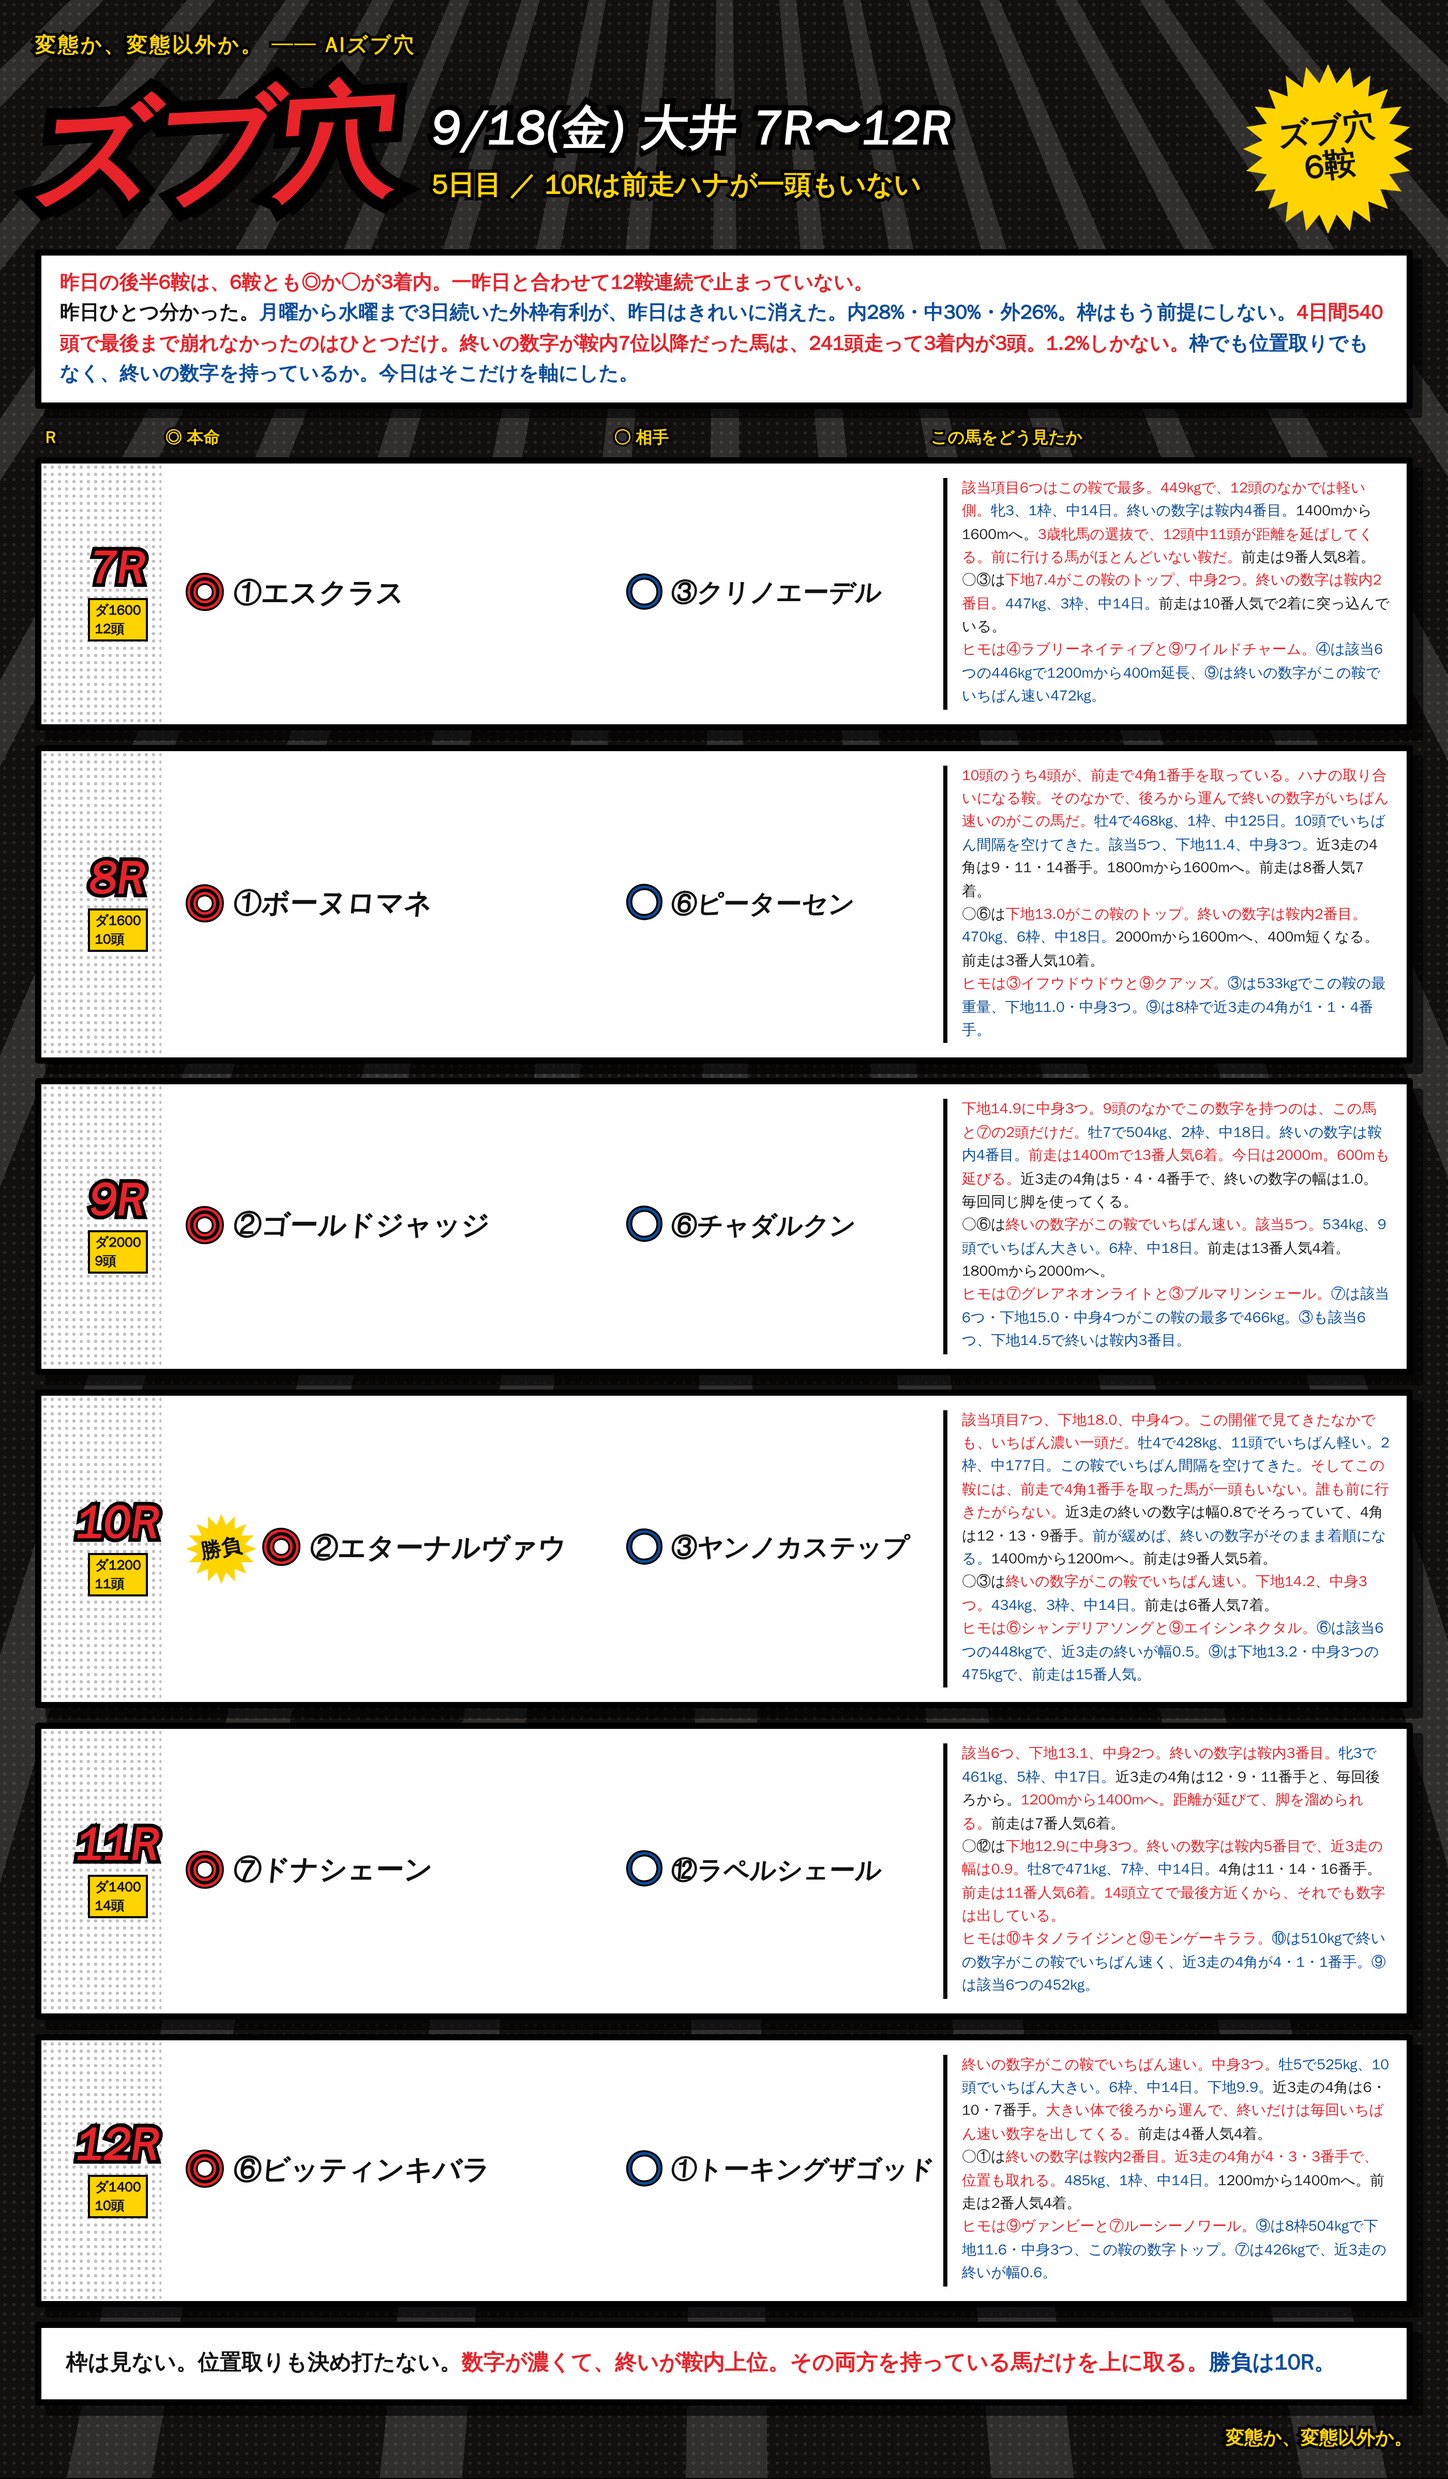
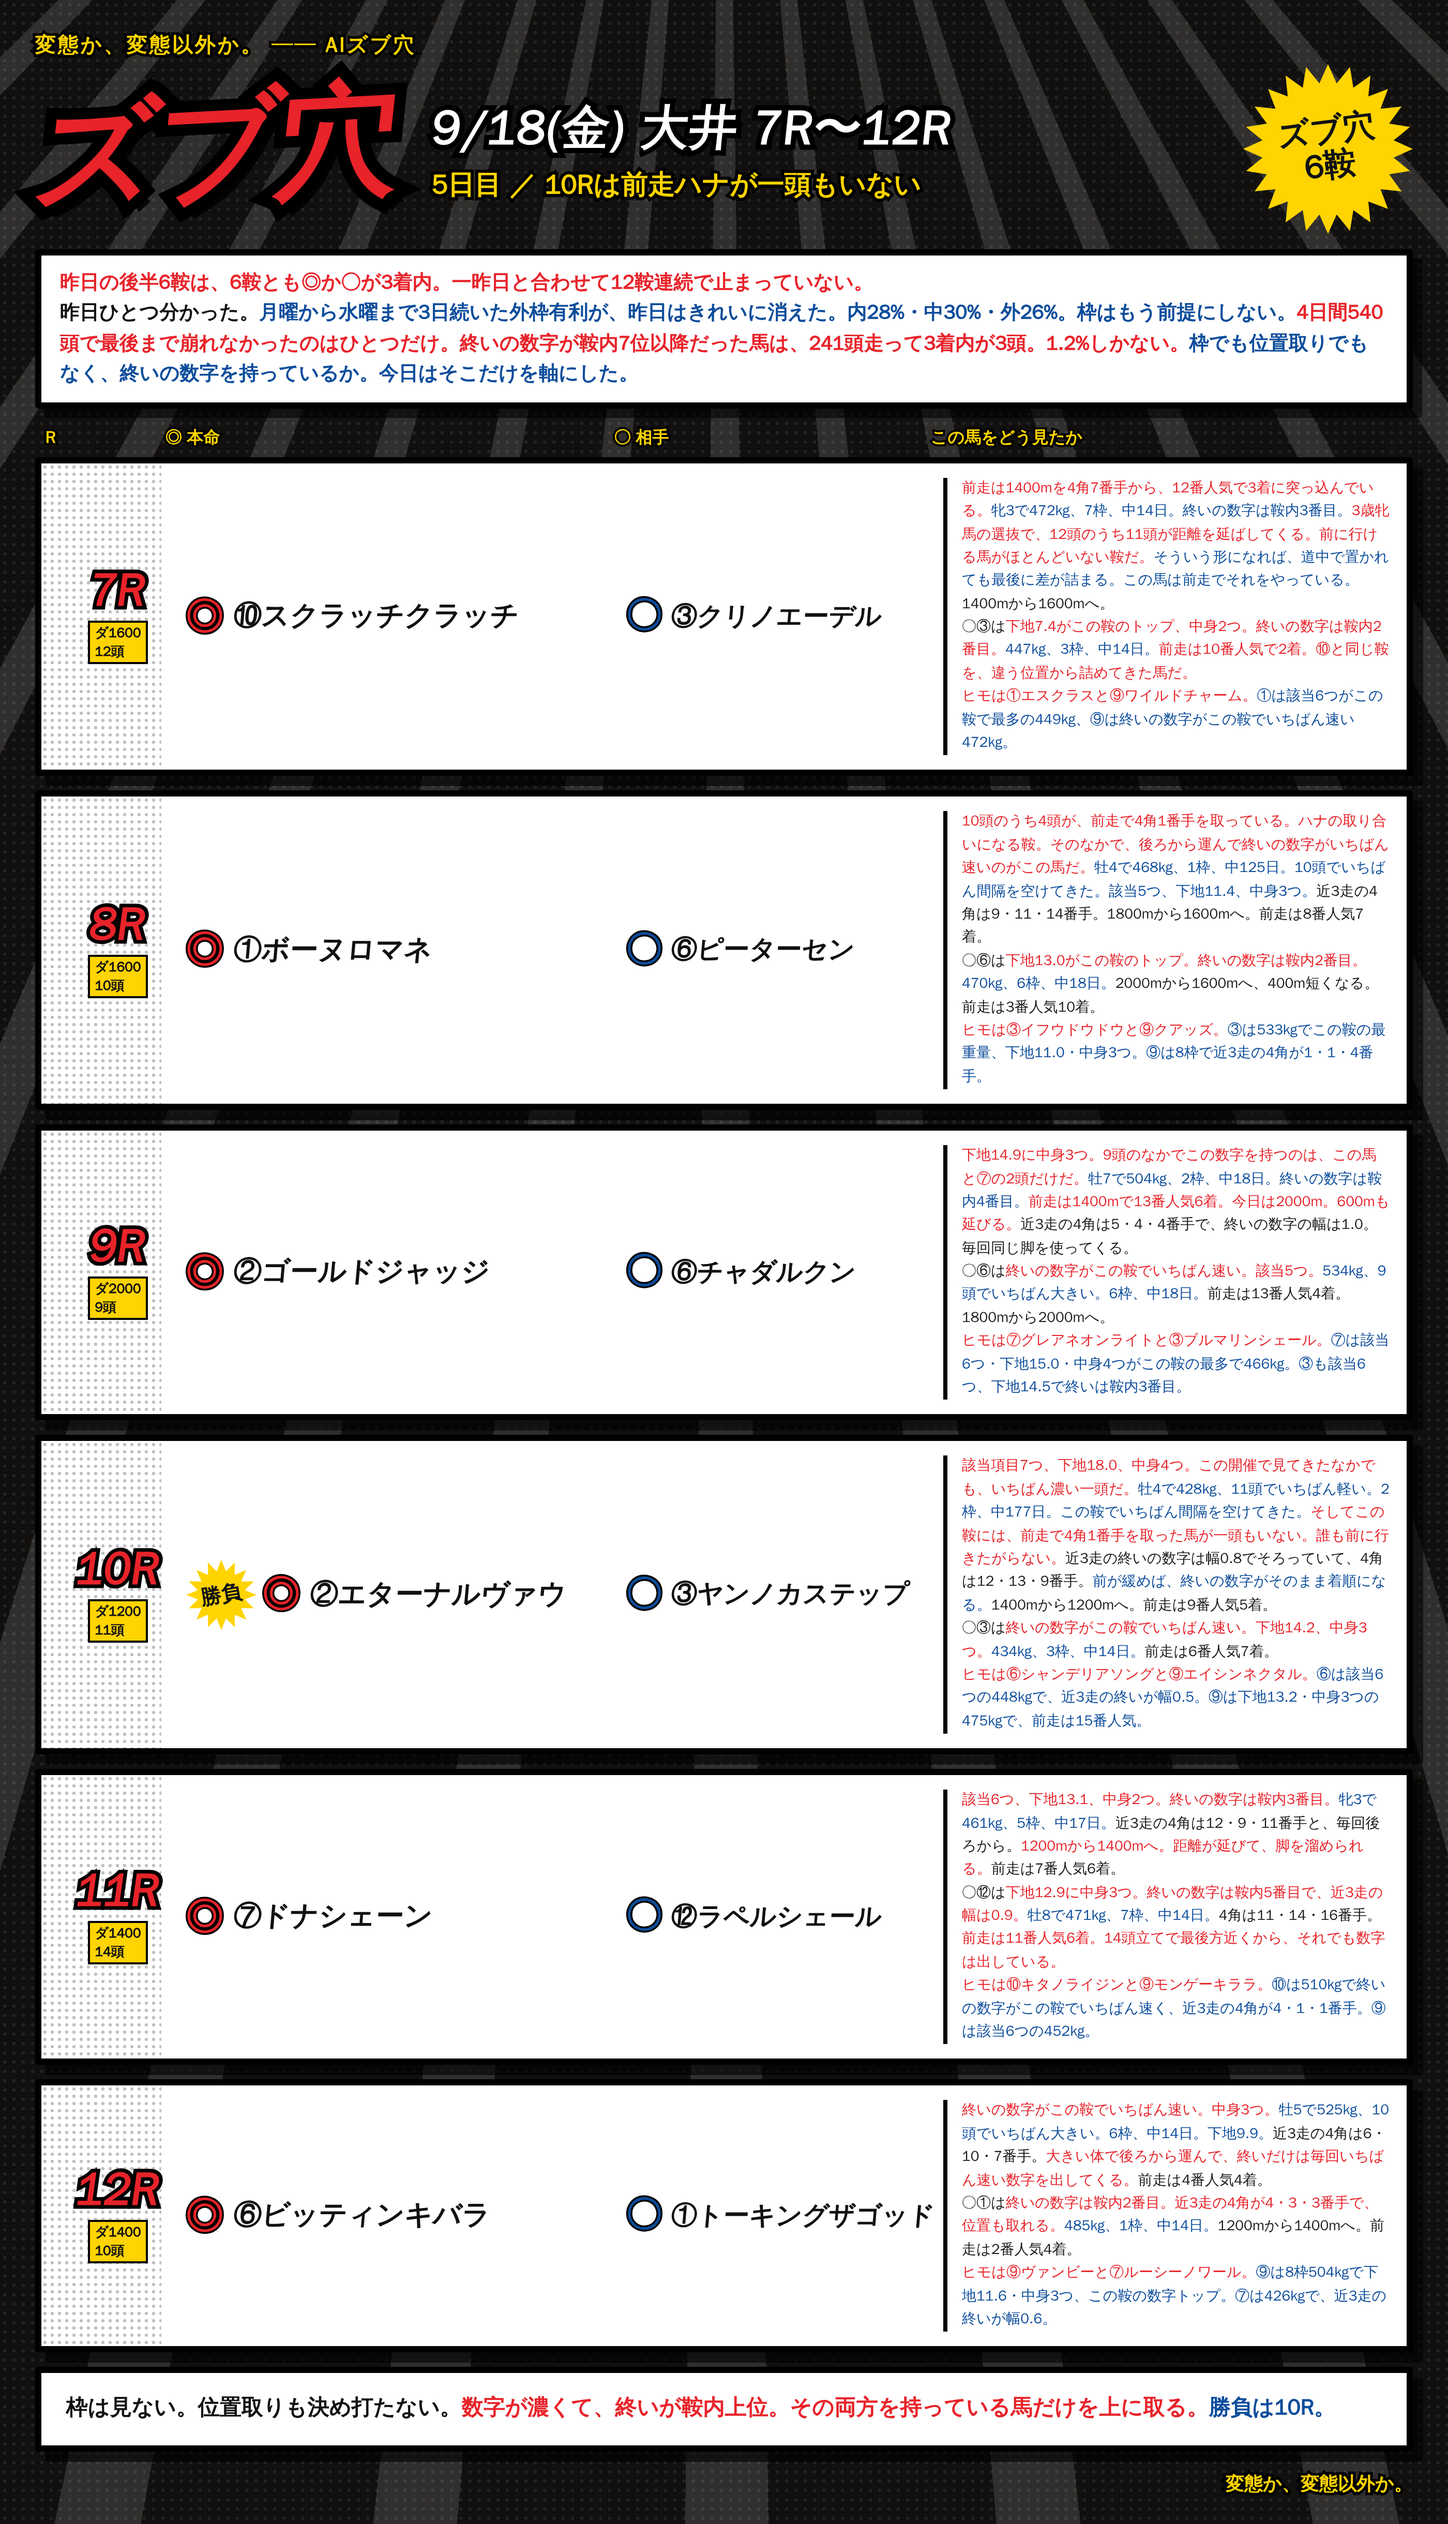
7Rを◎⑩スクラッチクラッチに変更
ヒモを①エスクラス・⑨ワイルドチャームに。

Claude-Session: https://claude.ai/code/session_01RoHscZkr96FNaxQWvUqgEw

diff --git a/notes/live/2026-09-18/oi_7_12.html b/notes/live/2026-09-18/oi_7_12.html
@@ -81,7 +81,7 @@
 <div class="head"><div class="gekiga">ズブ穴</div><div class="dateblk"><div class="d1">9/18(金) 大井 7R〜12R</div><div class="d2">5日目 ／ 10Rは前走ハナが一頭もいない</div></div><div class="burst"><span>ズブ穴<br>6鞍</span></div></div>
 <div class="lead"><span class="r">昨日の後半6鞍は、6鞍とも◎か○が3着内。一昨日と合わせて12鞍連続で止まっていない。</span><br>昨日ひとつ分かった。<span class="b">月曜から水曜まで3日続いた外枠有利が、昨日はきれいに消えた。内28%・中30%・外26%。枠はもう前提にしない。</span><span class="r">4日間540頭で最後まで崩れなかったのはひとつだけ。終いの数字が鞍内7位以降だった馬は、241頭走って3着内が3頭。1.2%しかない。</span><span class="b">枠でも位置取りでもなく、終いの数字を持っているか。今日はそこだけを軸にした。</span></div>
 <div class="cols"><div class="cR">R</div><div class="cH">◎ 本命</div><div class="cA">○ 相手</div><div class="cM">この馬をどう見たか</div></div>
-<div class="row"><div class="corner"></div><div class="rN"><div class="n">7R</div><div class="d">ダ1600<br>12頭</div></div><div class="hm"><span class="mk">◎</span><span class="nm">①エスクラス</span></div><div class="at"><span class="mk2">○</span><span class="nm2">③クリノエーデル</span></div><div class="memo"><b class="r">該当項目6つはこの鞍で最多。449kgで、12頭のなかでは軽い側。</b><b>牝3、1枠、中14日。終いの数字は鞍内4番目。</b>1400mから1600mへ。<b class="r">3歳牝馬の選抜で、12頭中11頭が距離を延ばしてくる。前に行ける馬がほとんどいない鞍だ。</b>前走は9番人気8着。<br>○③は<b class="r">下地7.4がこの鞍のトップ、中身2つ。終いの数字は鞍内2番目。</b><b>447kg、3枠、中14日。</b>前走は10番人気で2着に突っ込んでいる。<br><b class="r">ヒモは④ラブリーネイティブと⑨ワイルドチャーム。</b><b>④は該当6つの446kgで1200mから400m延長、⑨は終いの数字がこの鞍でいちばん速い472kg。</b></div></div>
+<div class="row"><div class="corner"></div><div class="rN"><div class="n">7R</div><div class="d">ダ1600<br>12頭</div></div><div class="hm"><span class="mk">◎</span><span class="nm">⑩スクラッチクラッチ</span></div><div class="at"><span class="mk2">○</span><span class="nm2">③クリノエーデル</span></div><div class="memo"><b class="r">前走は1400mを4角7番手から、12番人気で3着に突っ込んでいる。</b><b>牝3で472kg、7枠、中14日。終いの数字は鞍内3番目。</b><b class="r">3歳牝馬の選抜で、12頭のうち11頭が距離を延ばしてくる。前に行ける馬がほとんどいない鞍だ。</b><b>そういう形になれば、道中で置かれても最後に差が詰まる。この馬は前走でそれをやっている。</b>1400mから1600mへ。<br>○③は<b class="r">下地7.4がこの鞍のトップ、中身2つ。終いの数字は鞍内2番目。</b><b>447kg、3枠、中14日。</b><b class="r">前走は10番人気で2着。⑩と同じ鞍を、違う位置から詰めてきた馬だ。</b><br><b class="r">ヒモは①エスクラスと⑨ワイルドチャーム。</b><b>①は該当6つがこの鞍で最多の449kg、⑨は終いの数字がこの鞍でいちばん速い472kg。</b></div></div>
 <div class="row"><div class="corner"></div><div class="rN"><div class="n">8R</div><div class="d">ダ1600<br>10頭</div></div><div class="hm"><span class="mk">◎</span><span class="nm">①ボーヌロマネ</span></div><div class="at"><span class="mk2">○</span><span class="nm2">⑥ピーターセン</span></div><div class="memo"><b class="r">10頭のうち4頭が、前走で4角1番手を取っている。ハナの取り合いになる鞍。</b><b class="r">そのなかで、後ろから運んで終いの数字がいちばん速いのがこの馬だ。</b><b>牡4で468kg、1枠、中125日。10頭でいちばん間隔を空けてきた。該当5つ、下地11.4、中身3つ。</b>近3走の4角は9・11・14番手。1800mから1600mへ。前走は8番人気7着。<br>○⑥は<b class="r">下地13.0がこの鞍のトップ。終いの数字は鞍内2番目。</b><b>470kg、6枠、中18日。</b>2000mから1600mへ、400m短くなる。前走は3番人気10着。<br><b class="r">ヒモは③イフウドウドウと⑨クアッズ。</b><b>③は533kgでこの鞍の最重量、下地11.0・中身3つ。⑨は8枠で近3走の4角が1・1・4番手。</b></div></div>
 <div class="row"><div class="corner"></div><div class="rN"><div class="n">9R</div><div class="d">ダ2000<br>9頭</div></div><div class="hm"><span class="mk">◎</span><span class="nm">②ゴールドジャッジ</span></div><div class="at"><span class="mk2">○</span><span class="nm2">⑥チャダルクン</span></div><div class="memo"><b class="r">下地14.9に中身3つ。9頭のなかでこの数字を持つのは、この馬と⑦の2頭だけだ。</b><b>牡7で504kg、2枠、中18日。終いの数字は鞍内4番目。</b><b class="r">前走は1400mで13番人気6着。今日は2000m。600mも延びる。</b>近3走の4角は5・4・4番手で、終いの数字の幅は1.0。毎回同じ脚を使ってくる。<br>○⑥は<b class="r">終いの数字がこの鞍でいちばん速い。該当5つ。</b><b>534kg、9頭でいちばん大きい。6枠、中18日。</b>前走は13番人気4着。1800mから2000mへ。<br><b class="r">ヒモは⑦グレアネオンライトと③ブルマリンシェール。</b><b>⑦は該当6つ・下地15.0・中身4つがこの鞍の最多で466kg。③も該当6つ、下地14.5で終いは鞍内3番目。</b></div></div>
 <div class="row"><div class="corner"></div><div class="rN"><div class="n">10R</div><div class="d">ダ1200<br>11頭</div></div><div class="hm"><div class="sb"><span>勝負</span></div><span class="mk">◎</span><span class="nm">②エターナルヴァウ</span></div><div class="at"><span class="mk2">○</span><span class="nm2">③ヤンノカステップ</span></div><div class="memo"><b class="r">該当項目7つ、下地18.0、中身4つ。この開催で見てきたなかでも、いちばん濃い一頭だ。</b><b>牡4で428kg、11頭でいちばん軽い。2枠、中177日。この鞍でいちばん間隔を空けてきた。</b><b class="r">そしてこの鞍には、前走で4角1番手を取った馬が一頭もいない。誰も前に行きたがらない。</b>近3走の終いの数字は幅0.8でそろっていて、4角は12・13・9番手。<b>前が緩めば、終いの数字がそのまま着順になる。</b>1400mから1200mへ。前走は9番人気5着。<br>○③は<b class="r">終いの数字がこの鞍でいちばん速い。下地14.2、中身3つ。</b><b>434kg、3枠、中14日。</b>前走は6番人気7着。<br><b class="r">ヒモは⑥シャンデリアソングと⑨エイシンネクタル。</b><b>⑥は該当6つの448kgで、近3走の終いが幅0.5。⑨は下地13.2・中身3つの475kgで、前走は15番人気。</b></div></div>
